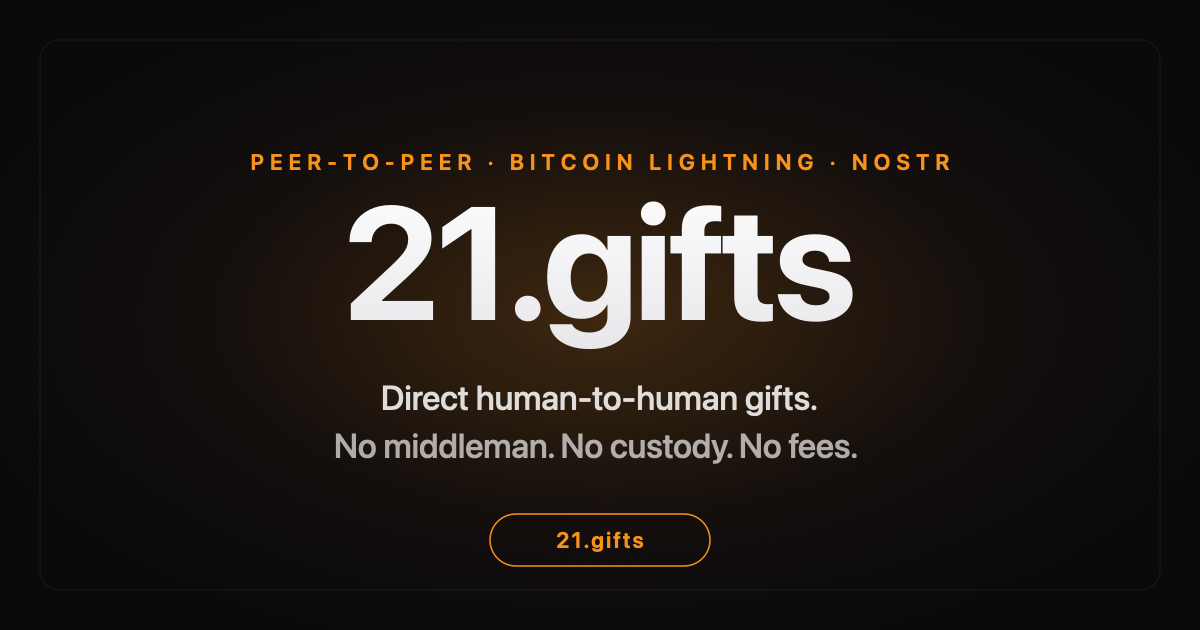
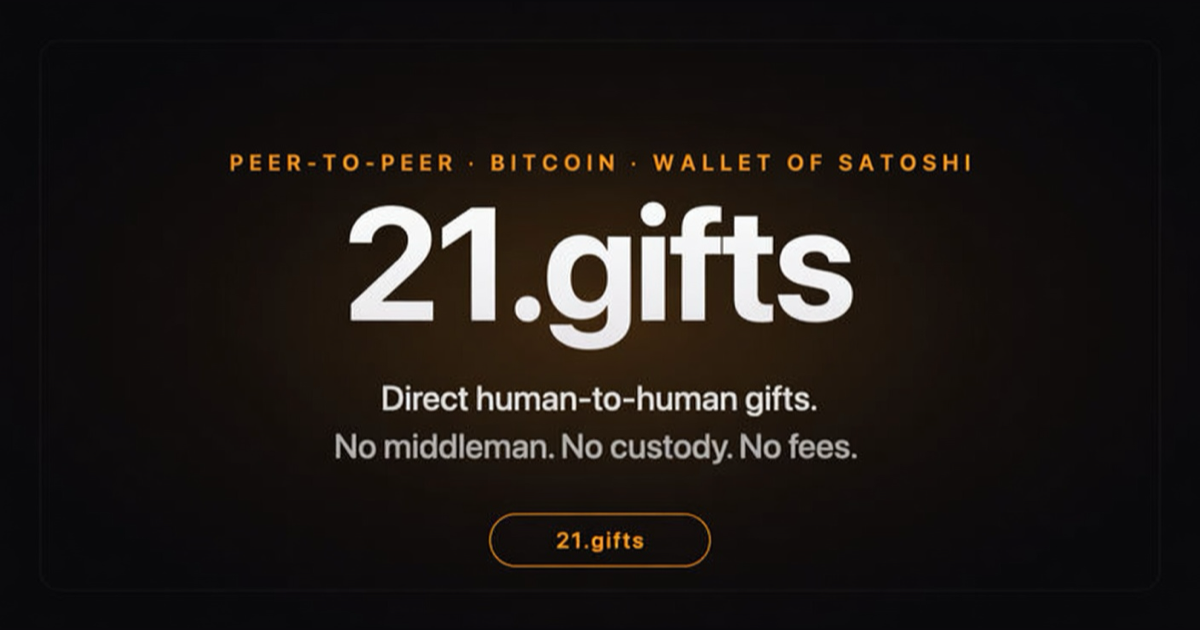
Drop Lightning from the social preview and cover Android donate
The Open Graph image now reads Bitcoin and Wallet of Satoshi.
Donate e2e asserts the Android Intent href; the visible card is
the same as desktop so no extra handbook variant is added.

diff --git a/e2e/donate.spec.ts b/e2e/donate.spec.ts
@@ -67,3 +67,39 @@ test('donate form creates a Bitcoin payment QR from a Wallet of Satoshi address'
     'walletofsatoshi:lightning:LNBC21N1EXAMPLEINVOICE',
   );
 });
+
+test('Android donate pins Wallet of Satoshi via intent package', async ({ page }) => {
+  await page.addInitScript(() => {
+    Object.defineProperty(navigator, 'userAgent', {
+      value: 'Mozilla/5.0 (Linux; Android 14; Pixel 8) AppleWebKit/537.36',
+      configurable: true,
+    });
+  });
+  await page.route(/\/lightning-address\?/, async (route) => {
+    await route.fulfill({
+      status: 200,
+      contentType: 'application/json',
+      body: JSON.stringify({
+        address: 'alice@example.com',
+        callback: 'https://ln.example.com/pay',
+        minSendable: 1000,
+        maxSendable: 1_000_000_000,
+      }),
+    });
+  });
+  await page.route('https://ln.example.com/pay**', async (route) => {
+    await route.fulfill({
+      status: 200,
+      contentType: 'application/json',
+      body: JSON.stringify({ pr: 'lnbc21n1exampleinvoice' }),
+    });
+  });
+  await page.goto('/donate');
+  await page.getByLabel('Wallet of Satoshi address').fill('alice@example.com');
+  await page.getByLabel('Amount (sats)').fill('21');
+  await page.getByRole('button', { name: 'Continue' }).click();
+  await expect(page.getByRole('link', { name: 'Open Wallet of Satoshi' })).toHaveAttribute(
+    'href',
+    'intent:lightning:LNBC21N1EXAMPLEINVOICE#Intent;scheme=walletofsatoshi;package=com.livingroomofsatoshi.wallet;S.browser_fallback_url=https%3A%2F%2Fplay.google.com%2Fstore%2Fapps%2Fdetails%3Fid%3Dcom.livingroomofsatoshi.wallet;end',
+  );
+});
